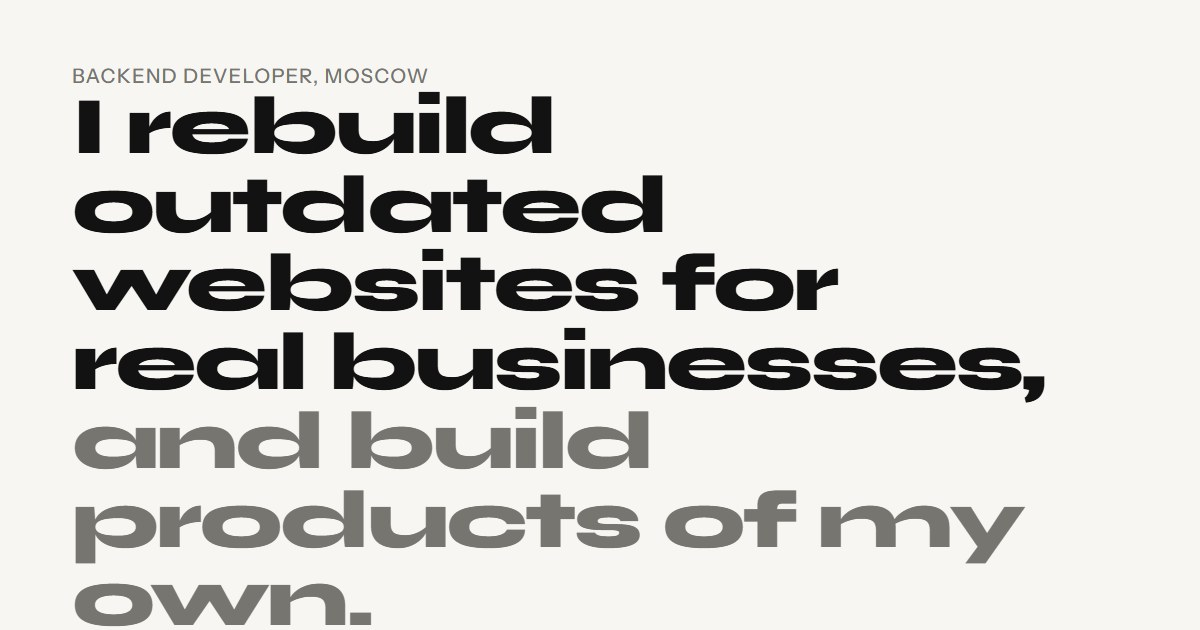
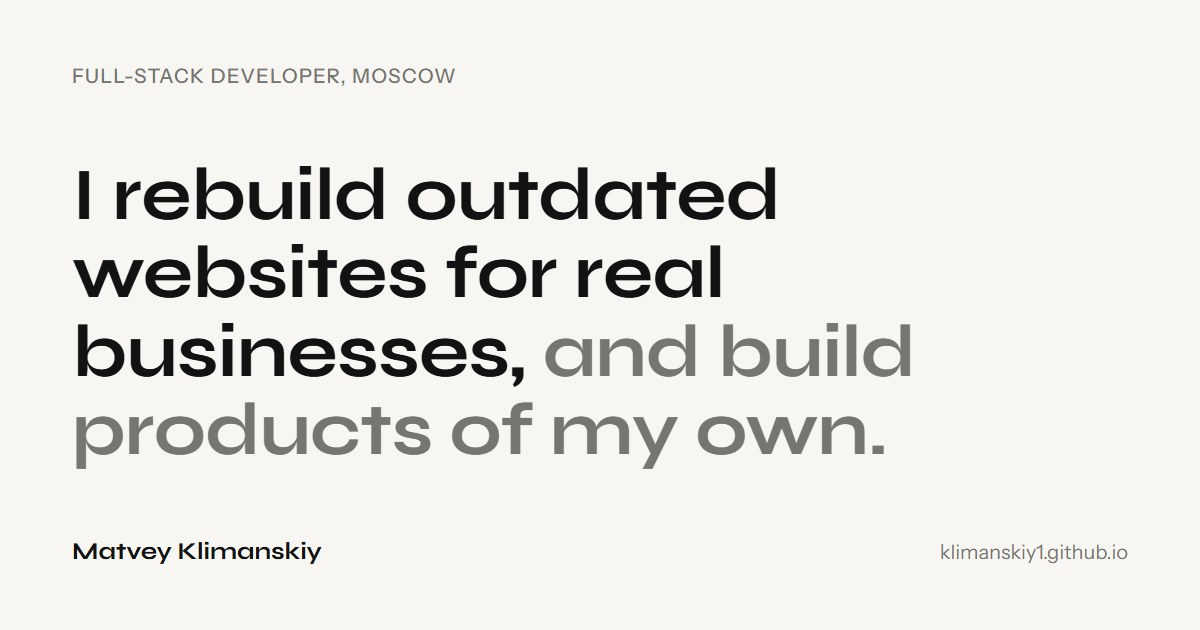
Loosen display type (Syne 700, open tracking), full-stack developer

Changed region(s): [[0.0617, 0.0905, 0.925, 0.9952]]

diff --git a/index.html b/index.html
@@ -3,13 +3,13 @@
 <head>
 <meta charset="UTF-8">
 <meta name="viewport" content="width=device-width, initial-scale=1, viewport-fit=cover">
-<title>Matvey Klimanskiy — backend developer, website rebuilds</title>
-<meta name="description" content="Matvey Klimanskiy, backend developer from Moscow. Rebuilds outdated websites for small businesses (five dive centres so far) and builds his own products: WipeSquad, MeToo, Tutor.">
+<title>Matvey Klimanskiy — full-stack developer, website rebuilds</title>
+<meta name="description" content="Matvey Klimanskiy, full-stack developer from Moscow. Rebuilds outdated websites for small businesses (five dive centres so far) and builds his own products: WipeSquad, MeToo, Tutor.">
 <link rel="canonical" href="https://klimanskiy1.github.io/">
 <meta property="og:type" content="website">
 <meta property="og:url" content="https://klimanskiy1.github.io/">
 <meta property="og:title" content="Matvey Klimanskiy — websites rebuilt, products built">
-<meta property="og:description" content="Backend developer. I rebuild outdated websites for real businesses and build products of my own.">
+<meta property="og:description" content="Full-stack developer. I rebuild outdated websites for real businesses and build products of my own.">
 <meta property="og:image" content="https://klimanskiy1.github.io/assets/img/og.jpg">
 <meta property="og:image:width" content="1200">
 <meta property="og:image:height" content="630">
@@ -68,7 +68,7 @@ body{
 }
 img{max-width:100%;display:block;height:auto}
 a{color:inherit;text-decoration:none}
-h1,h2,h3{font-family:'Syne','Instrument Sans',system-ui,sans-serif;font-weight:800;line-height:1;letter-spacing:-.02em;text-wrap:balance}
+h1,h2,h3{font-family:'Syne','Instrument Sans',system-ui,sans-serif;font-weight:700;line-height:1.08;letter-spacing:0;text-wrap:balance}
 p a,li a,dd a{text-decoration:underline;text-decoration-thickness:1px;text-underline-offset:3px;text-decoration-color:var(--line-2)}
 p a:hover,li a:hover,dd a:hover{text-decoration-color:var(--accent);color:var(--accent)}
 code{font-family:ui-monospace,'SF Mono',Menlo,Consolas,monospace;font-size:.9em}
@@ -83,7 +83,7 @@ code{font-family:ui-monospace,'SF Mono',Menlo,Consolas,monospace;font-size:.9em}
 /* ---------- header ---------- */
 .top{position:sticky;top:env(safe-area-inset-top,0px);z-index:40;background:color-mix(in srgb,var(--bg) 88%,transparent);backdrop-filter:blur(10px);border-bottom:1px solid var(--line)}
 .nav{display:grid;grid-template-columns:1fr auto 1fr;align-items:center;height:58px;gap:16px}
-.brand{font-family:'Syne',sans-serif;font-weight:800;font-size:1rem;letter-spacing:-.01em;white-space:nowrap}
+.brand{font-family:'Syne',sans-serif;font-weight:700;font-size:1rem;letter-spacing:0;white-space:nowrap}
 .clock{font-size:.82rem;color:var(--mute);text-align:center;white-space:nowrap;font-variant-numeric:tabular-nums}
 .links{display:flex;justify-content:flex-end;align-items:center;gap:22px;font-size:.9rem;font-weight:500}
 .links a{position:relative;padding:2px 0;color:var(--ink-2)}
@@ -107,7 +107,7 @@ code{font-family:ui-monospace,'SF Mono',Menlo,Consolas,monospace;font-size:.9em}
 
 /* ---------- hero ---------- */
 .hero{padding-block:clamp(56px,10vw,132px) clamp(40px,6vw,80px)}
-.hero h1{font-size:clamp(2.4rem,5.9vw,5.4rem);letter-spacing:-.035em;line-height:.96;max-width:19ch;margin:18px 0 clamp(32px,5vw,64px)}
+.hero h1{font-size:clamp(2.2rem,5.2vw,4.8rem);letter-spacing:-.01em;line-height:1.06;max-width:20ch;margin:18px 0 clamp(32px,5vw,64px)}
 .hero h1 span{color:var(--mute)}
 .hero-cols{display:grid;grid-template-columns:7fr 5fr;gap:clamp(28px,5vw,80px);align-items:start}
 @media(max-width:820px){.hero-cols{grid-template-columns:1fr}}
@@ -134,7 +134,7 @@ section{padding-block:clamp(56px,9vw,120px)}
 @media(max-width:820px){.sec{grid-template-columns:1fr}}
 .sec-side{position:sticky;top:calc(58px + env(safe-area-inset-top,0px) + 24px)}
 @media(max-width:820px){.sec-side{position:static}}
-.sec-side h2{font-size:clamp(1.6rem,2.6vw,2.2rem);font-weight:800;letter-spacing:-.03em;margin-top:6px}
+.sec-side h2{font-size:clamp(1.5rem,2.4vw,2rem);font-weight:700;letter-spacing:0;margin-top:6px}
 .sec-side p{color:var(--ink-2);font-size:.98rem;margin-top:14px;max-width:32ch}
 .sec-side .label{display:block}
 
@@ -146,7 +146,7 @@ section{padding-block:clamp(56px,9vw,120px)}
 .case .shot .phone img{aspect-ratio:390/844;border-radius:8px;object-position:top}
 .case .cap{display:grid;grid-template-columns:5fr 7fr;gap:16px clamp(24px,4vw,56px);margin-top:34px}
 @media(max-width:820px){.case .cap{grid-template-columns:1fr}}
-.case h3{font-size:clamp(1.5rem,2.6vw,2.2rem);font-weight:800;letter-spacing:-.03em;line-height:1.02}
+.case h3{font-size:clamp(1.4rem,2.4vw,2rem);font-weight:700;letter-spacing:0;line-height:1.1}
 .case .sub{color:var(--mute);font-size:.9rem;margin-top:8px}
 .case .status{display:inline-flex;align-items:center;gap:8px;font-size:.82rem;font-weight:500;margin-top:14px;color:var(--ink-2)}
 .case .status::before{content:"";width:7px;height:7px;border-radius:50%;background:var(--line-2)}
@@ -165,7 +165,7 @@ section{padding-block:clamp(56px,9vw,120px)}
 .index{border-top:1px solid var(--ink)}
 .row{display:grid;grid-template-columns:minmax(0,2.1fr) minmax(0,3.2fr) minmax(0,2fr) minmax(0,1.3fr) 20px;gap:16px 24px;align-items:baseline;padding:18px 0;border-bottom:1px solid var(--line);position:relative;color:inherit;transition:background .15s}
 a.row:hover{background:var(--bg-2);margin-inline:-14px;padding-inline:14px}
-.row .name{font-family:'Syne',sans-serif;font-weight:700;font-size:1.05rem;letter-spacing:-.01em}
+.row .name{font-family:'Syne',sans-serif;font-weight:700;font-size:1.02rem;letter-spacing:0}
 .row .what{color:var(--ink-2);font-size:.95rem}
 .row .tech{color:var(--mute);font-size:.86rem}
 .row .kind{color:var(--mute);font-size:.86rem;white-space:nowrap}
@@ -192,7 +192,7 @@ a.row:hover .arrow{transform:translate(3px,-3px);color:var(--accent)}
 @media(max-width:1000px){.steps{grid-template-columns:1fr 1fr}}
 @media(max-width:560px){.steps{grid-template-columns:1fr}}
 .steps li{counter-increment:s}
-.steps li::before{content:counter(s,decimal-leading-zero);display:block;font-family:'Syne',sans-serif;font-weight:800;font-size:1.6rem;letter-spacing:-.03em;color:var(--ink);margin-bottom:10px}
+.steps li::before{content:counter(s,decimal-leading-zero);display:block;font-family:'Syne',sans-serif;font-weight:700;font-size:1.5rem;letter-spacing:0;color:var(--ink);margin-bottom:10px}
 .steps b{display:block;font-weight:600;margin-bottom:4px}
 .steps p{font-size:.9rem;color:var(--ink-2);line-height:1.45}
 .beliefs{display:grid;grid-template-columns:1fr 1fr;gap:28px clamp(24px,4vw,56px);margin-top:clamp(40px,6vw,72px)}
@@ -215,7 +215,7 @@ a.row:hover .arrow{transform:translate(3px,-3px);color:var(--accent)}
 
 /* ---------- contact ---------- */
 .contact{background:var(--contact-bg);color:var(--contact-ink);padding-block:clamp(64px,10vw,140px) clamp(32px,5vw,56px)}
-.contact h2{font-size:clamp(2.4rem,6.5vw,6rem);letter-spacing:-.035em;line-height:.98;max-width:14ch}
+.contact h2{font-size:clamp(2.2rem,5.6vw,5.2rem);letter-spacing:-.01em;line-height:1.06;max-width:15ch}
 .contact .after{margin-top:clamp(28px,4vw,48px);display:grid;grid-template-columns:5fr 7fr;gap:24px clamp(24px,4vw,64px);align-items:end}
 @media(max-width:820px){.contact .after{grid-template-columns:1fr}}
 .contact p{color:color-mix(in srgb,var(--contact-ink) 72%,transparent);max-width:44ch;font-size:1.05rem}
@@ -257,12 +257,12 @@ a.row:hover .arrow{transform:translate(3px,-3px);color:var(--accent)}
 <!-- ================= HERO ================= -->
 <section class="hero">
   <div class="wrap">
-    <span class="label">Backend developer, Moscow</span>
+    <span class="label">Full-stack developer, Moscow</span>
     <h1>I rebuild outdated websites for real businesses, <span>and build products of my own.</span></h1>
     <div class="hero-cols">
       <div>
         <p class="lead">Right now that means static, hand-tuned rebuilds for dive centres in Vietnam and Miami, and two products in development: a teammate platform for Rust and an anonymous-conversations app.</p>
-        <p class="lead">Backend by trade. The front end came from needing sites that load on a phone in a resort with weak Wi-Fi.</p>
+        <p class="lead">Started on the backend; the front end came from needing sites that load on a phone in a resort with weak Wi-Fi.</p>
         <div class="cta">
           <a class="btn btn-fill" href="mailto:klimanskiymatvey@gmail.com">Email me</a>
           <a class="btn" href="https://t.me/matew_1" target="_blank" rel="noopener">Telegram</a>
